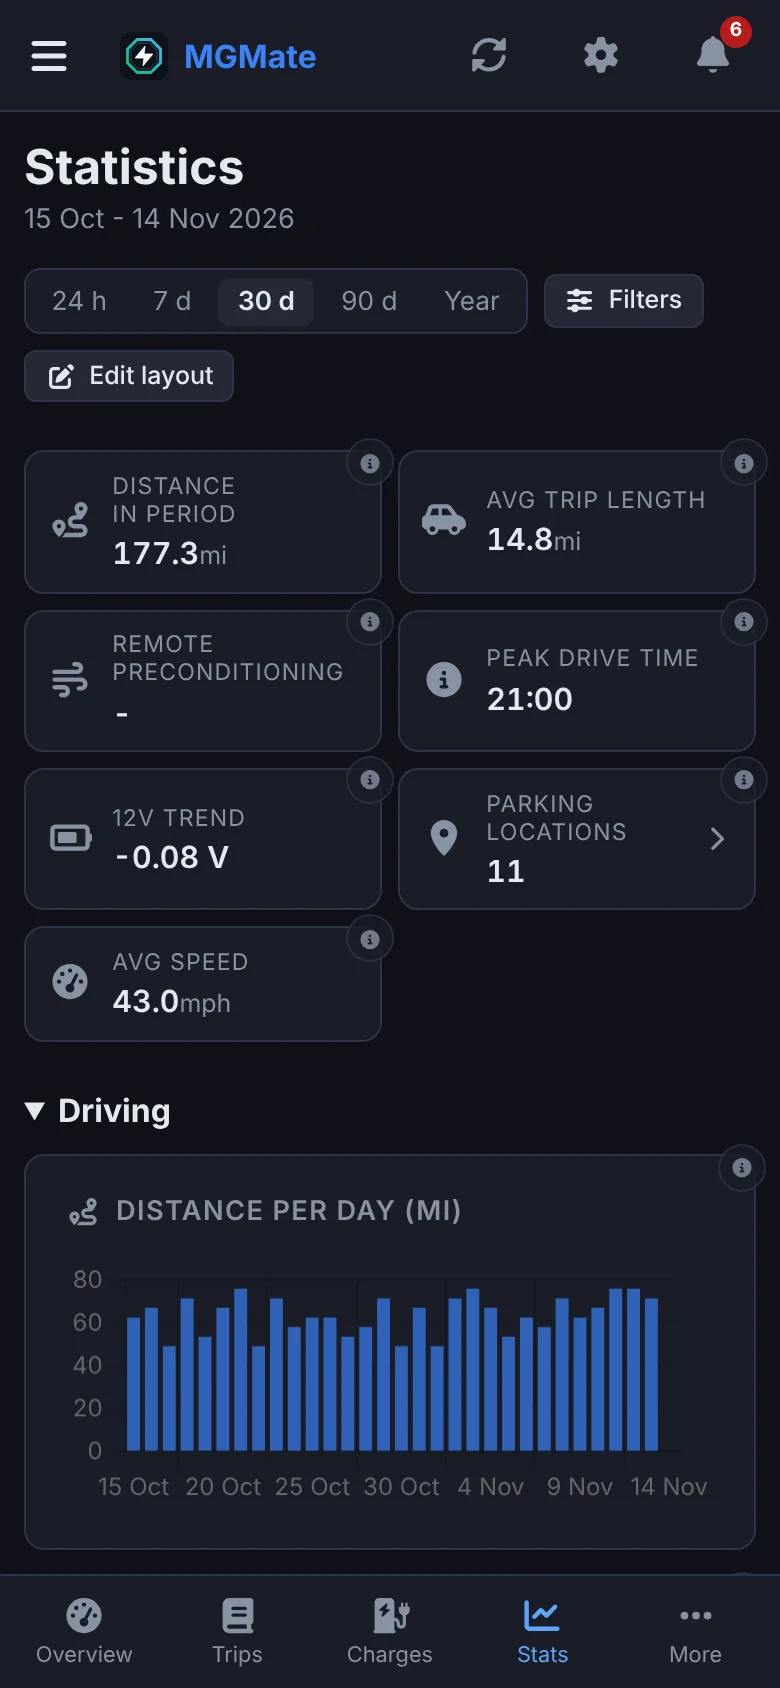
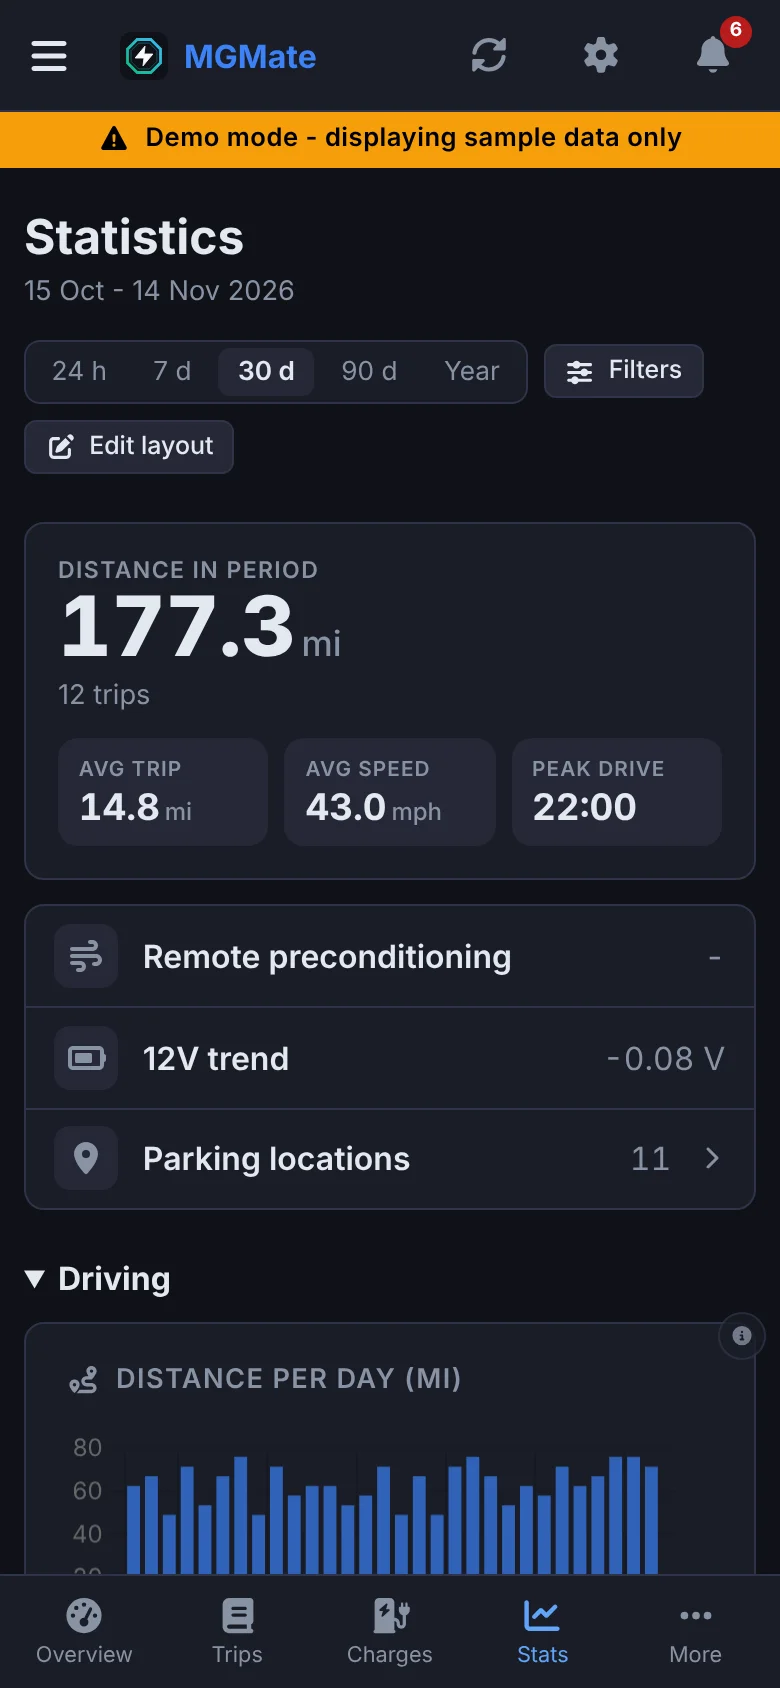
Statistics on a phone: the distance as the headline, the rest as a short list (#51)
On a phone the insight cards give way to a summary: the period's distance
as one big number with the number of trips, the average trip, average
speed and peak drive time under it, and the other figures switched on in
the layout as a list. Parking locations opens its map from its row. Edit
layout and wide screens are unchanged.

Claude-Session: https://claude.ai/code/session_01JCP7VXYhdJUTi5nftAu1j6

diff --git a/frontend/src/components/StatsPhoneSummary.vue b/frontend/src/components/StatsPhoneSummary.vue
@@ -1,0 +1,224 @@
+<script setup lang="ts">
+// The period's figures as a phone shows them: the distance as the one big number, up to three
+// figures about the driving under it, and the rest as a short list.
+export interface StatsSummaryFigure {
+  id: string
+  icon: string
+  label: string
+  value: string | null
+  unit?: string
+  clickable?: boolean
+}
+
+defineProps<{
+  /** The headline figure; left out when the user has hidden it. */
+  hero: StatsSummaryFigure | null
+  /** What stands under the headline, such as the number of trips. */
+  note: string | null
+  tiles: readonly StatsSummaryFigure[]
+  rows: readonly StatsSummaryFigure[]
+}>()
+
+const emit = defineEmits<{ (e: 'select', id: string): void }>()
+</script>
+
+<template>
+  <div class="stats-phone">
+    <div v-if="hero || tiles.length > 0" class="stats-phone__card">
+      <template v-if="hero">
+        <span class="stats-phone__label">{{ hero.label }}</span>
+        <span class="stats-phone__hero">
+          {{ hero.value ?? '-'
+          }}<small v-if="hero.unit && hero.value !== null">{{ hero.unit }}</small>
+        </span>
+        <span v-if="note" class="stats-phone__note">{{ note }}</span>
+      </template>
+      <dl v-if="tiles.length > 0" class="stats-phone__tiles">
+        <div v-for="tile in tiles" :key="tile.id" class="stats-phone__tile">
+          <dt>{{ tile.label }}</dt>
+          <dd>
+            {{ tile.value ?? '-'
+            }}<small v-if="tile.unit && tile.value !== null">{{ tile.unit }}</small>
+          </dd>
+        </div>
+      </dl>
+    </div>
+
+    <ul v-if="rows.length > 0" class="stats-phone__rows">
+      <li v-for="row in rows" :key="row.id">
+        <component
+          :is="row.clickable ? 'button' : 'div'"
+          class="stats-phone__row"
+          :type="row.clickable ? 'button' : undefined"
+          @click="row.clickable && emit('select', row.id)"
+        >
+          <span class="stats-phone__icon"><font-awesome-icon :icon="row.icon" /></span>
+          <span class="stats-phone__row-label">{{ row.label }}</span>
+          <span class="stats-phone__row-value">
+            {{ row.value ?? '-'
+            }}<template v-if="row.unit && row.value !== null"> {{ row.unit }}</template>
+          </span>
+          <font-awesome-icon
+            v-if="row.clickable"
+            icon="chevron-right"
+            class="stats-phone__chevron"
+            aria-hidden="true"
+          />
+        </component>
+      </li>
+    </ul>
+  </div>
+</template>
+
+<style scoped>
+.stats-phone {
+  display: flex;
+  flex-direction: column;
+  gap: 0.75rem;
+}
+
+.stats-phone__card,
+.stats-phone__rows {
+  border: 1px solid var(--color-border);
+  border-radius: var(--radius);
+  background: var(--color-surface);
+  box-shadow: var(--shadow-card);
+}
+
+.stats-phone__card {
+  display: flex;
+  flex-direction: column;
+  padding: 1rem;
+}
+
+.stats-phone__label {
+  font-size: 0.72rem;
+  font-weight: 600;
+  letter-spacing: 0.06em;
+  text-transform: uppercase;
+  color: var(--color-text-muted);
+}
+
+.stats-phone__hero {
+  font-size: 2.6rem;
+  font-weight: 800;
+  line-height: 1.1;
+  font-variant-numeric: tabular-nums;
+}
+
+.stats-phone__hero small {
+  margin-left: 0.2rem;
+  font-size: 1.1rem;
+  font-weight: 500;
+  color: var(--color-text-muted);
+}
+
+.stats-phone__note {
+  margin-top: 0.15rem;
+  font-size: 0.85rem;
+  color: var(--color-text-muted);
+}
+
+.stats-phone__tiles {
+  display: grid;
+  grid-auto-flow: column;
+  grid-auto-columns: minmax(0, 1fr);
+  gap: 0.5rem;
+  margin: 0.85rem 0 0;
+}
+
+.stats-phone__card > .stats-phone__tiles:first-child {
+  margin-top: 0;
+}
+
+.stats-phone__tile {
+  min-width: 0;
+  padding: 0.55rem 0.65rem;
+  border-radius: 10px;
+  background: var(--color-surface-2);
+}
+
+.stats-phone__tile dt {
+  overflow: hidden;
+  font-size: 0.65rem;
+  font-weight: 600;
+  letter-spacing: 0.05em;
+  text-transform: uppercase;
+  text-overflow: ellipsis;
+  white-space: nowrap;
+  color: var(--color-text-muted);
+}
+
+.stats-phone__tile dd {
+  margin: 0.1rem 0 0;
+  font-size: 1.15rem;
+  font-weight: 700;
+  font-variant-numeric: tabular-nums;
+  white-space: nowrap;
+}
+
+.stats-phone__tile dd small {
+  margin-left: 0.15rem;
+  font-size: 0.75rem;
+  font-weight: 500;
+  color: var(--color-text-muted);
+}
+
+.stats-phone__rows {
+  margin: 0;
+  padding: 0;
+  list-style: none;
+  overflow: hidden;
+}
+
+.stats-phone__rows li + li {
+  border-top: 1px solid var(--color-border);
+}
+
+.stats-phone__row {
+  display: flex;
+  align-items: center;
+  gap: 0.75rem;
+  width: 100%;
+  min-height: 48px;
+  padding: 0.55rem 0.9rem;
+  border: 0;
+  background: none;
+  color: inherit;
+  font: inherit;
+  text-align: left;
+}
+
+button.stats-phone__row {
+  cursor: pointer;
+}
+
+.stats-phone__icon {
+  display: inline-grid;
+  flex: none;
+  place-items: center;
+  width: 2rem;
+  height: 2rem;
+  border-radius: 8px;
+  background: var(--color-surface-2);
+  color: var(--color-text-muted);
+}
+
+.stats-phone__row-label {
+  flex: 1;
+  min-width: 0;
+  font-weight: 600;
+}
+
+.stats-phone__row-value {
+  flex: none;
+  color: var(--color-text-muted);
+  font-variant-numeric: tabular-nums;
+}
+
+.stats-phone__chevron {
+  flex: none;
+  font-size: 0.75rem;
+  color: var(--color-text-muted);
+}
+</style>

diff --git a/frontend/src/views/StatisticsView.vue b/frontend/src/views/StatisticsView.vue
@@ -46,6 +46,8 @@ import {
 import { useUnits } from '@/composables/useUnits'
 import { useErrorMessage } from '@/composables/useErrorMessage'
 import { useStatisticsCharts } from '@/composables/useStatisticsCharts'
+import StatsPhoneSummary from '@/components/StatsPhoneSummary.vue'
+import { useMediaQuery } from '@/composables/useMediaQuery'
 import ViewHeader from '@/components/ViewHeader.vue'
 
 // Only edit mode rearranges the cards; the drag-and-drop library loads when it opens. The cast
@@ -353,6 +355,35 @@ const insightRows = computed(() =>
   settings.statsInsights.map((item) => ({ item, def: insightDefMap.value.get(item.id)! })),
 )
 
+// On a phone the distance leads as one big number, the figures about the driving stand under it,
+// and whatever else the user has switched on follows as a list, in their order.
+const isPhone = useMediaQuery('(width <= 767px)')
+const PHONE_TILE_IDS: readonly StatsInsightId[] = ['avgTripLength', 'avgSpeed', 'commutePattern']
+
+const phoneSummary = computed(() => {
+  const shown = insightRows.value
+    .filter(({ item, def }) => item.visible && def.applicable)
+    .map(({ item, def }) => ({
+      id: item.id,
+      icon: def.icon,
+      label: def.title,
+      value: def.value,
+      unit: def.unit,
+      clickable: def.clickable === true,
+    }))
+  const trips = store.tripSummaries.length
+  return {
+    hero: shown.find((f) => f.id === 'periodDistance') ?? null,
+    note: trips > 0 ? t('tripLog.tripCount', { n: trips }, trips) : null,
+    // Three across leaves room for a short name only.
+    tiles: PHONE_TILE_IDS.flatMap((id) => shown.filter((f) => f.id === id)).map((f) => ({
+      ...f,
+      label: t(`statistics.phone.${f.id}`),
+    })),
+    rows: shown.filter((f) => f.id !== 'periodDistance' && !PHONE_TILE_IDS.includes(f.id)),
+  }
+})
+
 // ── Charts ────────────────────────────────────────────────
 
 const chartDefs = useStatisticsCharts(
@@ -479,6 +510,16 @@ const skeletonChartCount = computed(
               </div>
             </template>
           </EditableCardGrid>
+
+          <!-- A phone: the distance as the headline, the rest as a short list -->
+          <StatsPhoneSummary
+            v-else-if="isPhone"
+            :hero="phoneSummary.hero"
+            :note="phoneSummary.note"
+            :tiles="phoneSummary.tiles"
+            :rows="phoneSummary.rows"
+            @select="(id) => onInsightClick(id as StatsInsightId)"
+          />
 
           <!-- Normal mode: visible + applicable insights -->
           <div v-else class="status-grid">

diff --git a/frontend/src/views/__tests__/StatisticsView.spec.ts b/frontend/src/views/__tests__/StatisticsView.spec.ts
@@ -286,4 +286,48 @@ describe('StatisticsView', () => {
 
     expect(wrapper.find('.empty-state[role="alert"]').exists()).toBe(true)
   })
+
+  describe('on a phone', () => {
+    beforeEach(() => {
+      vi.stubGlobal('matchMedia', (query: string) => ({
+        matches: query === '(width <= 767px)',
+        addEventListener: () => {},
+        removeEventListener: () => {},
+      }))
+    })
+
+    afterEach(() => {
+      vi.unstubAllGlobals()
+    })
+
+    it('leads with the distance and the number of trips, in place of the cards', async () => {
+      const wrapper = await mountView()
+
+      expect(wrapper.find('.status-card').exists()).toBe(false)
+      expect(wrapper.find('.stats-phone__hero').text()).toBe('60.0km')
+      expect(wrapper.find('.stats-phone__note').text()).toBe('3 trips')
+      expect(wrapper.find('.stats-phone__tiles').text()).toContain(
+        en.statistics.phone.avgTripLength,
+      )
+    })
+
+    it('lists the other figures, and opens the parking map from its row', async () => {
+      const wrapper = await mountView()
+
+      const rows = wrapper.findAll('.stats-phone__row').map((row) => row.text())
+      expect(rows.some((row) => row.includes(insights.batteryVoltageTrend))).toBe(true)
+      await wrapper.find('button.stats-phone__row').trigger('click')
+      expect(document.body.querySelectorAll('.marker')).toHaveLength(2)
+    })
+
+    it('leaves out a figure the layout has switched off', async () => {
+      useDashboardSettingsStore(pinia).statsInsights.find(
+        (i) => i.id === 'periodDistance',
+      )!.visible = false
+      const wrapper = await mountView()
+
+      expect(wrapper.find('.stats-phone__hero').exists()).toBe(false)
+      expect(wrapper.find('.stats-phone__tiles').exists()).toBe(true)
+    })
+  })
 })

diff --git a/documentation/screenshots/README.md b/documentation/screenshots/README.md
@@ -82,7 +82,7 @@ Click **Parking locations** for a map of every place the car stood in the period
 | **Trips** | **Charges** | **Reports** | **Battery health** |
 | <img src="mobile-trips.webp" alt="Trips on a phone" width="180"> | <img src="mobile-charges.webp" alt="Charges on a phone" width="180"> | <img src="mobile-reports.webp" alt="Reports on a phone" width="180"> | <img src="mobile-battery-health.webp" alt="Battery health on a phone" width="180"> |
 | **Statistics** | **Maintenance** | **Climate schedules** | **Charging** |
-| <img src="mobile-statistics.webp" alt="The statistics on a phone" width="180"> | <img src="mobile-maintenance.webp" alt="The maintenance list on a phone" width="180"> | <img src="mobile-climate-schedules.webp" alt="The climate schedules on a phone" width="180"> | <img src="mobile-dashboard-charging.webp" alt="The live charging card on a phone" width="180"> |
+| <img src="mobile-statistics.webp" alt="The statistics on a phone: the distance for the period as one big number, three figures under it, and the rest as a short list above the charts" width="180"> | <img src="mobile-maintenance.webp" alt="The maintenance list on a phone" width="180"> | <img src="mobile-climate-schedules.webp" alt="The climate schedules on a phone" width="180"> | <img src="mobile-dashboard-charging.webp" alt="The live charging card on a phone" width="180"> |
 | **Settings** | **Debug** | **Notifications** | **Trip chart scrubbed** |
 | <img src="mobile-settings.webp" alt="Settings on a phone" width="180"> | <img src="mobile-debug.webp" alt="The Debug page on a phone" width="180"> | <img src="mobile-notifications.webp" alt="The notifications, full screen on a phone" width="180"> | <img src="mobile-trip-detail.webp" alt="A trip's chart scrubbed on a phone, the map pinned above it with the car at that moment" width="180"> |
 | **Parking locations** | | | |

diff --git a/README.md b/README.md
@@ -213,7 +213,7 @@ The overview above is what you see by default. The classic status cards below ar
 
 ### Statistics insights
 
-The Statistics view shows insight cards and charts for a period of its own: the last 24 hours, the last 7, 30 or 90 days, this or last month, this or last year, or custom dates. Charts show a point per day up to about three months, per week up to a year, and per month beyond that. A period longer than a month also gets a table of trips, distance and energy per month. Cards are draggable and individually toggleable.
+The Statistics view shows insight cards and charts for a period of its own: the last 24 hours, the last 7, 30 or 90 days, this or last month, this or last year, or custom dates. Charts show a point per day up to about three months, per week up to a year, and per month beyond that. A period longer than a month also gets a table of trips, distance and energy per month. Cards are draggable and individually toggleable. **On a phone** the cards give way to a summary: the distance for the period as one big number with the number of trips, the average trip, average speed and peak drive time under it, and the other figures you have switched on (the 12V trend, parking locations and so on) as a short list. Edit layout still decides which of them show.
 
 | Insight | Description |
 | ------- | ----------- |
